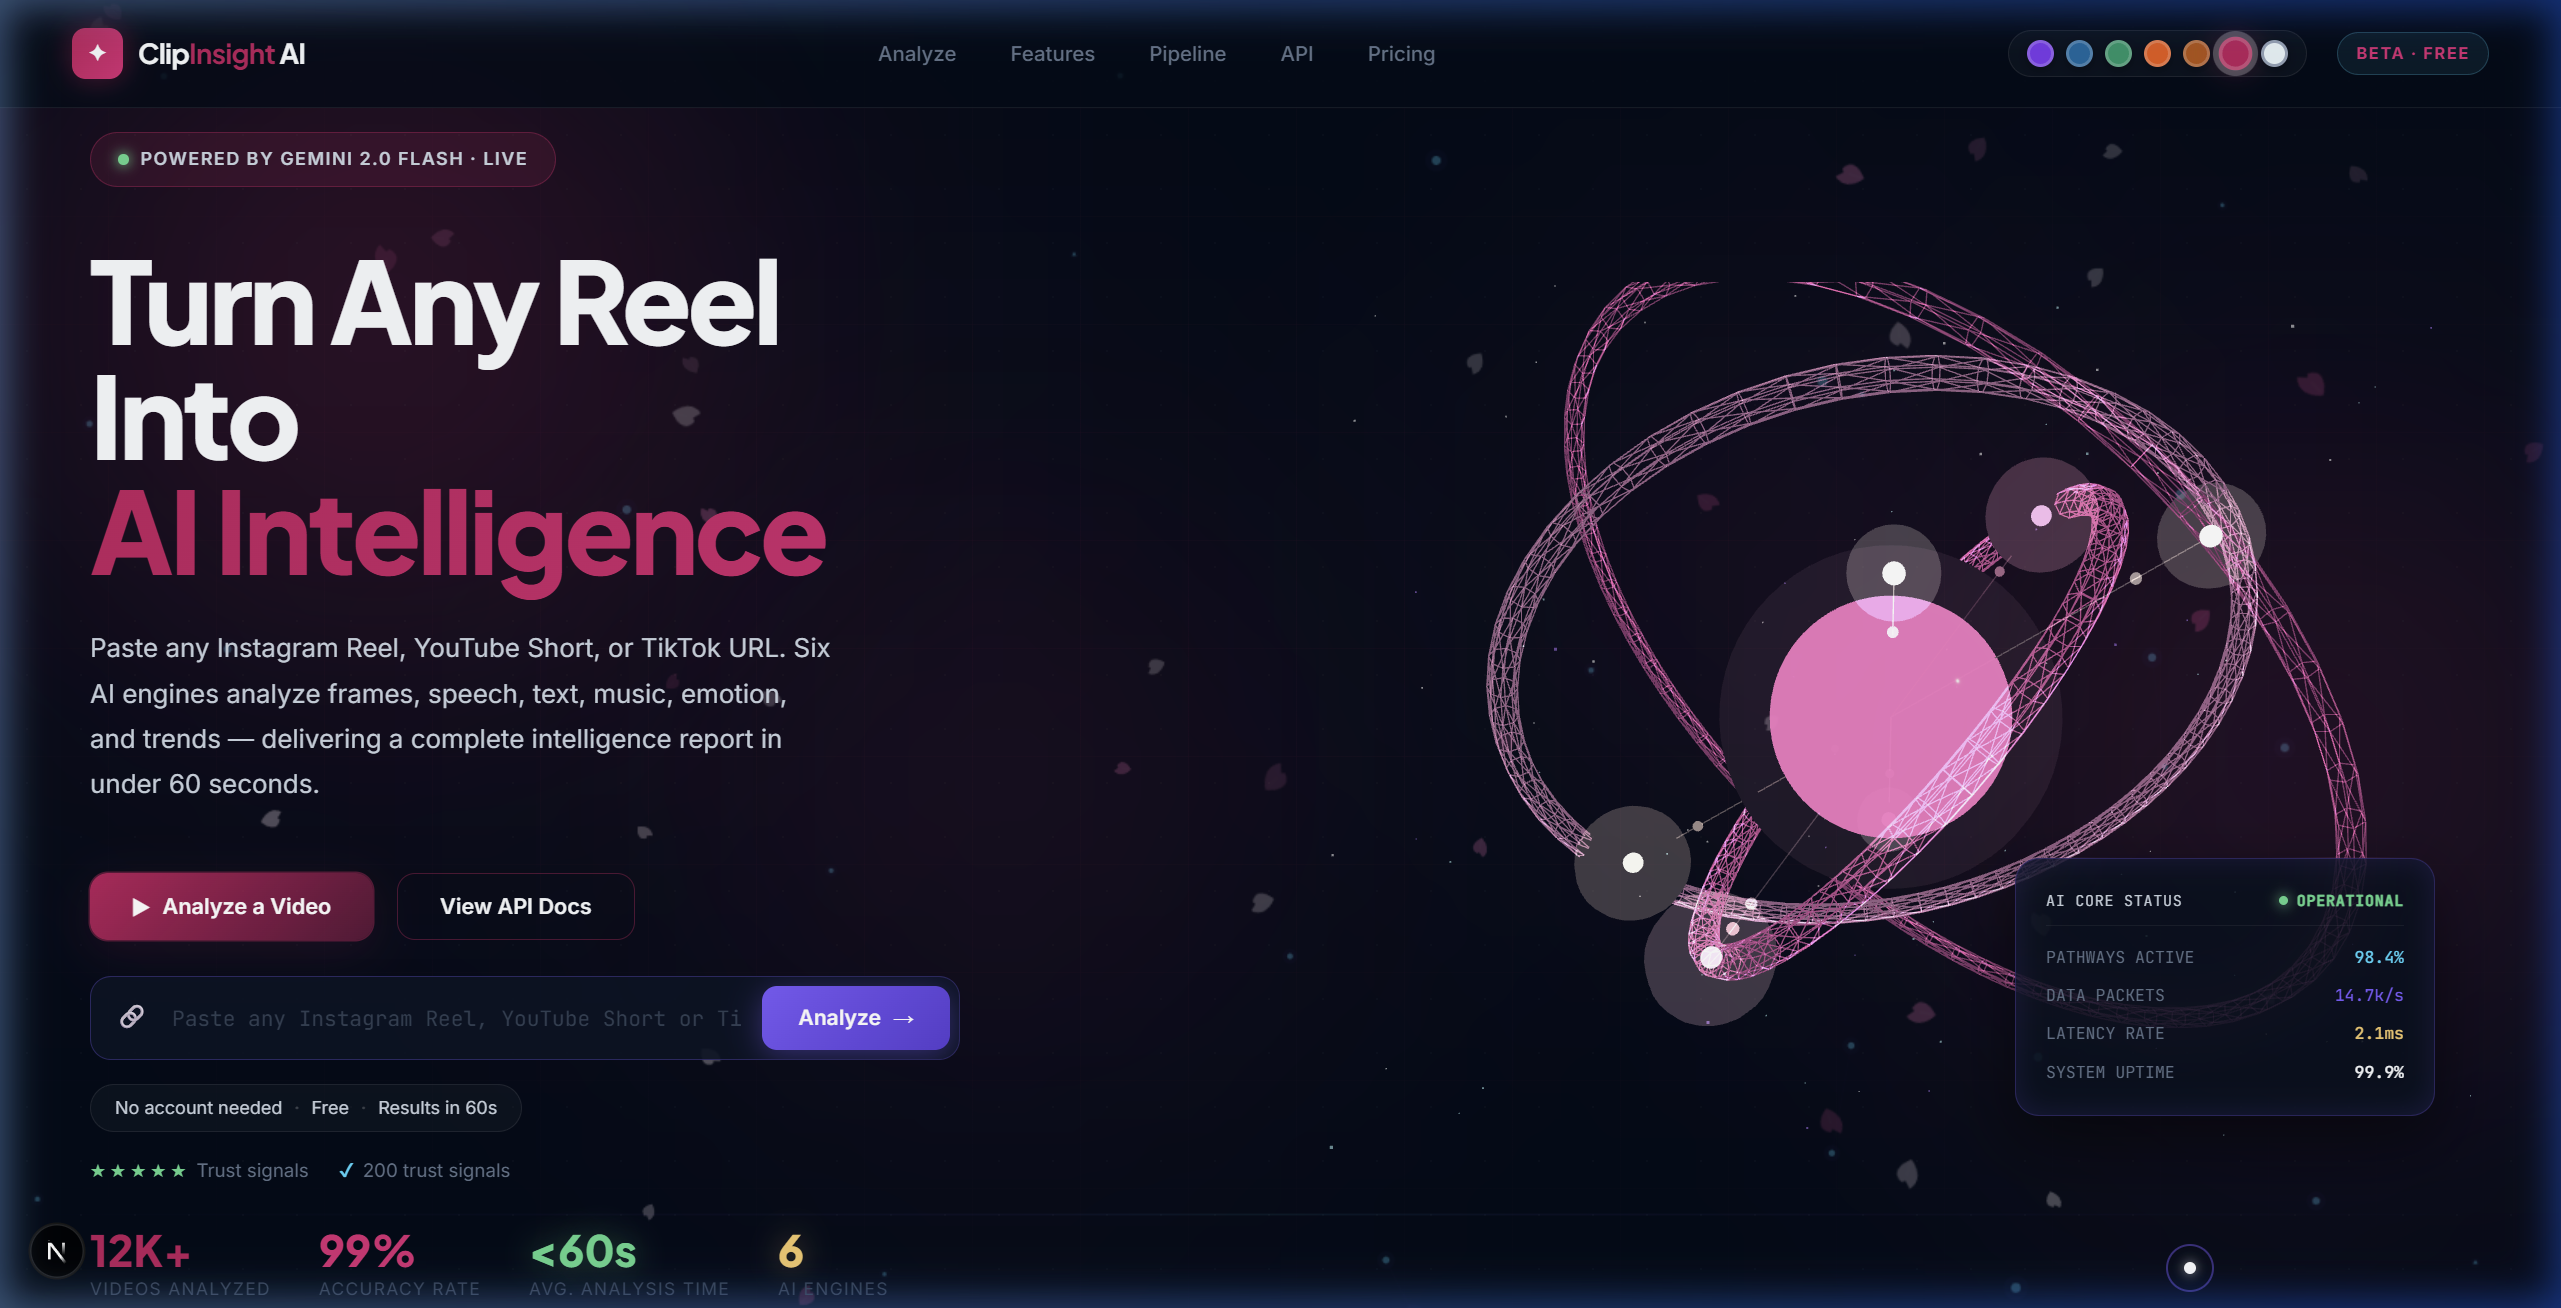
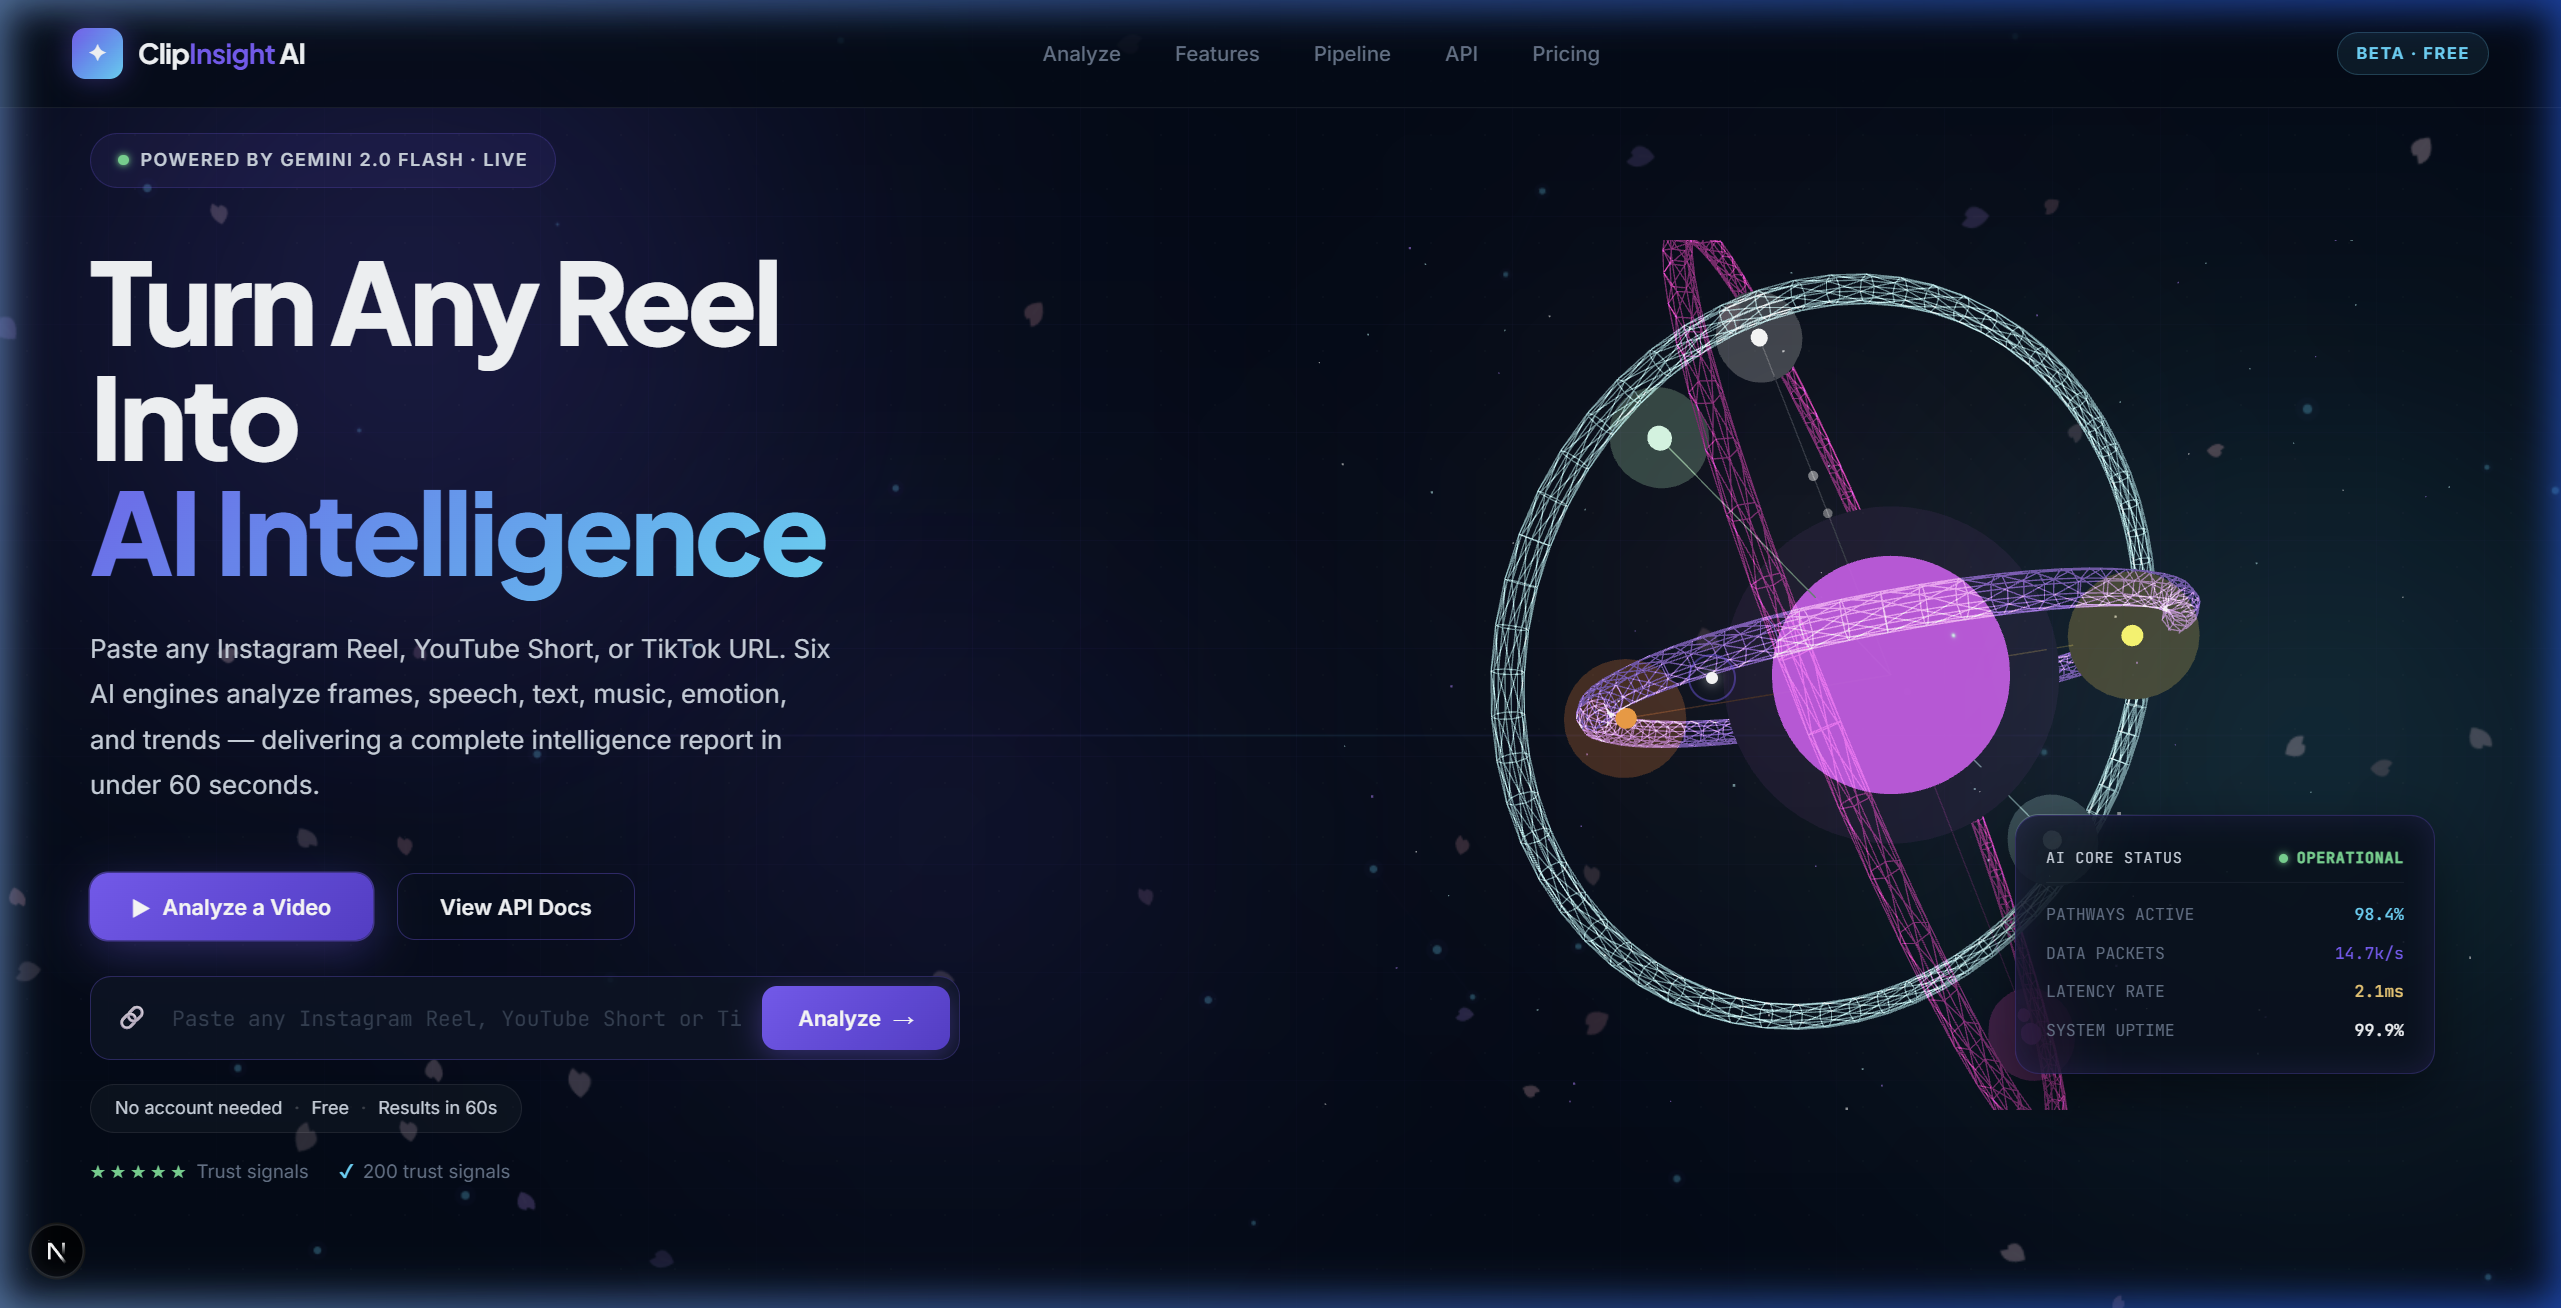
docs: update README.md screenshots with high-fidelity production designs, delete temp pic folder

diff --git a/backend/main.py b/backend/main.py
@@ -206,7 +206,15 @@ async def analyze_url_json(req: AnalyzeURLRequest):
     """
     Accept a video URL as JSON payload, download it, and return a job_id.
     """
-    url = req.url
+    import unicodedata
+    raw_url = req.url or ""
+    # Strip zero-width space, non-joiner, joiner, direction marks, and control characters
+    url = "".join(
+        c for c in raw_url 
+        if c not in ("\u200b", "\u200c", "\u200d", "\u200e", "\u200f", "\ufeff") 
+        and not unicodedata.category(c).startswith('C')
+    ).strip()
+
     if not is_valid_url(url):
         raise HTTPException(status_code=400, detail="Invalid URL.")
 

diff --git a/README.md b/README.md
@@ -11,7 +11,7 @@
 [![Gemini](https://img.shields.io/badge/Google_Gemini-AI-orange?style=flat-square&logo=google)](https://ai.google.dev)
 [![License](https://img.shields.io/badge/License-MIT-purple?style=flat-square)](LICENSE)
 
-![ClipInsight AI Demo](docs/screenshots/dashboard.png)
+![ClipInsight AI Demo](docs/screenshots/homepage.png)
 
 </div>
 
@@ -141,13 +141,21 @@ We implement Shazam's fingerprinting algorithm from scratch in pure Python:
 
 ## 🖼 Screenshots
 
-| Homepage (Dark Theme) | Analysis In Progress |
+| Homepage (Dark Theme) | Themes Selection (7 Colors) |
 |---|---|
-| ![Homepage](docs/screenshots/homepage.png) | ![Progress](docs/screenshots/progress.png) |
+| ![Homepage](docs/screenshots/homepage.png) | ![Themes](docs/screenshots/themes.png) |
 
-| Results Dashboard | Ice White (Light Theme) |
+| Analysis In Progress | Results Dashboard |
 |---|---|
-| ![Dashboard](docs/screenshots/dashboard.png) | ![Light Theme](docs/screenshots/light_theme.png) |
+| ![Progress](docs/screenshots/progress.png) | ![Dashboard](docs/screenshots/dashboard.png) |
+
+| AI Analysis Breakdown | Extracted Frames |
+|---|---|
+| ![Breakdown](docs/screenshots/breakdown.png) | ![Frames](docs/screenshots/frames.png) |
+
+| Confidence Radar | API Access |
+|---|---|
+| ![Radar](docs/screenshots/radar.png) | ![API](docs/screenshots/api.png) |
 
 ---
 